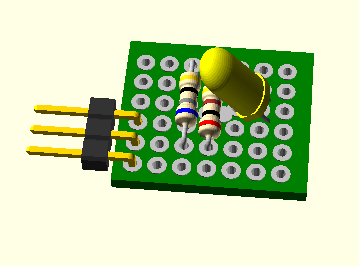
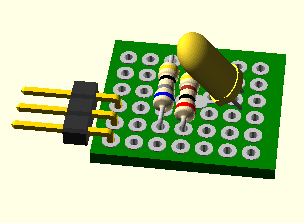
LED color changed to amber

Changed region(s): [[0.0296, 0.1345, 0.9474, 0.8072]]

diff --git a/djp/readme.md b/djp/readme.md
@@ -6,7 +6,7 @@ Note work is still needed on this solid object.
 
 * The leads on the LED need to be spread out to match the holes.
 * I made a addition to the existing library adding a new board type as PERF20x17. 
-  My actual perf board has traceses joining the holes in the x direction. I have not
+  My actual perf board has traces joining the holes in the x direction. I have not
   yet worked out the best method to add this.
 * I will add the off board jumper wires.
   
